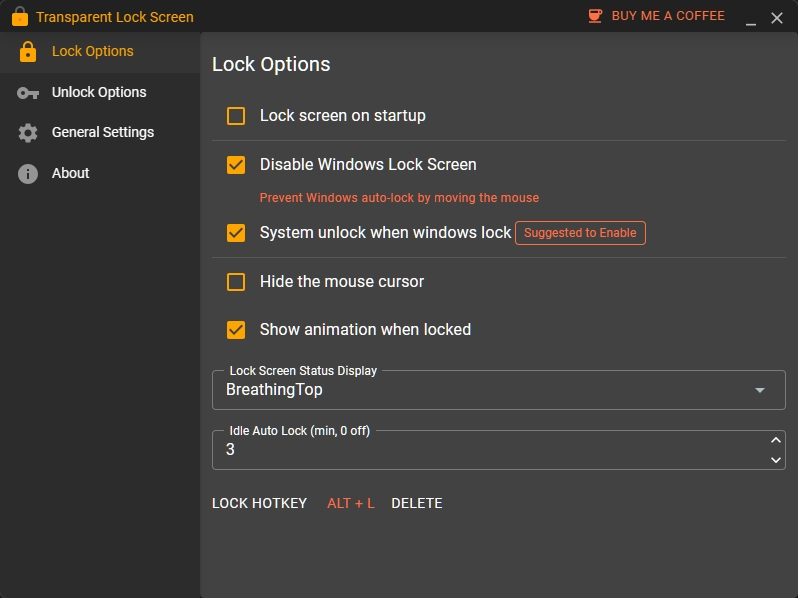
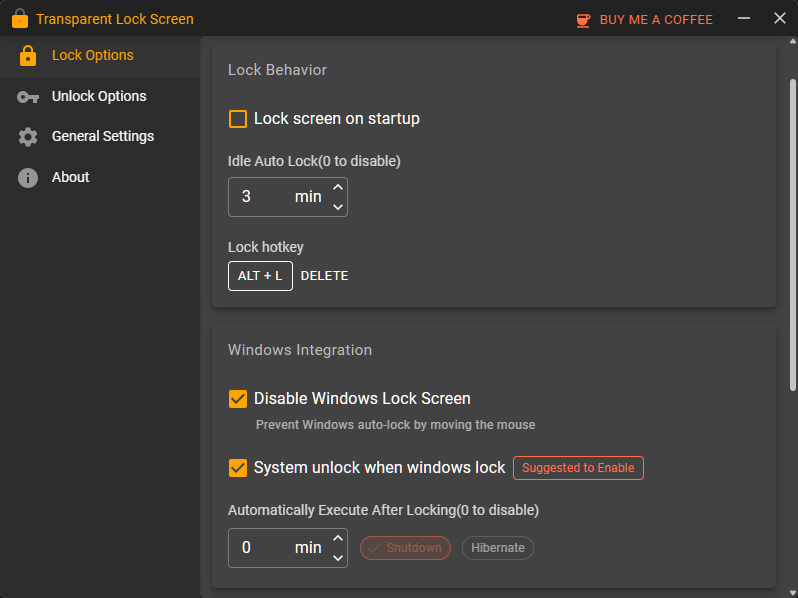
更新文档

diff --git a/README_en.md b/README_en.md
@@ -4,6 +4,7 @@
 ![](https://img.shields.io/github/license/JiuLing-zhang/ComputerLock)
 ![](https://img.shields.io/github/actions/workflow/status/JiuLing-zhang/ComputerLock/release.yml)
 [![](https://img.shields.io/github/v/release/JiuLing-zhang/ComputerLock)](https://github.com/JiuLing-zhang/ComputerLock/releases)
+👉👉[中文版](./README.md)
 
 </div>
 
@@ -13,8 +14,6 @@
 
 > Transparent Lock Screen is here to help.  
 
-👉👉[中文版](./README.md)  
-
 <img src="https://github.com/JiuLing-zhang/ComputerLock/raw/main/resources/app_en.png" width="50%">
 
 ## Features  
@@ -22,6 +21,7 @@
 * ⚡ Break the Monotony: Say goodbye to boring system lock screens and create a unique lock screen style.
 * 🌈 Prevent Sleep Mode: Keep your system awake while locked, avoiding interruptions to downloads, transfers, or other important tasks.
 * 🌀 Auto Lock: No need to manually lock your screen—the system will automatically lock it based on your settings, effectively preventing others from accessing your private information.
+* 🔋 Smart Shutdown: Automatically execute shutdown or hibernation after a specified time while locked, preventing resource waste from prolonged lock screen states.
 
 ## Use Cases  
 * 🎈 Business Presentations: Ensure smooth presentations during meetings or product demos by avoiding accidental interruptions.

diff --git a/README.md b/README.md
@@ -4,6 +4,7 @@
 ![](https://img.shields.io/github/license/JiuLing-zhang/ComputerLock)
 ![](https://img.shields.io/github/actions/workflow/status/JiuLing-zhang/ComputerLock/build.yml)
 [![](https://img.shields.io/github/v/release/JiuLing-zhang/ComputerLock)](https://github.com/JiuLing-zhang/ComputerLock/releases)
+👉👉[English Version](./README_en.md)
 
 </div>
 
@@ -13,8 +14,6 @@
 
 > **透明锁屏** 了解一下。  
 
-👉👉[English Version](./README_en.md)  
-
 <img src="https://github.com/JiuLing-zhang/ComputerLock/raw/main/resources/app.png" width="50%">
 
 ## 功能特点  
@@ -22,6 +21,7 @@
 * ⚡ **打破单调**：告别枯燥的系统锁屏界面，打造独一无二的锁屏风格。
 * 🌈 **防止休眠**：锁屏状态下，系统可保持唤醒状态，避免因休眠中断下载、传输等重要任务。
 * 🌀 **自动锁屏**：离开后无需手动操作，系统将根据设置自动锁定屏幕，有效防止他人窥探您的隐私。
+* 🔋 **智能关机**：锁屏状态下，经过指定时间后自动执行关机、休眠操作，避免长时间锁屏浪费资源。
 
 ## 适用场景  
 * 🎈 **商务展示**：会议演示、产品展示时，避免误操作，确保展示流畅进行。
